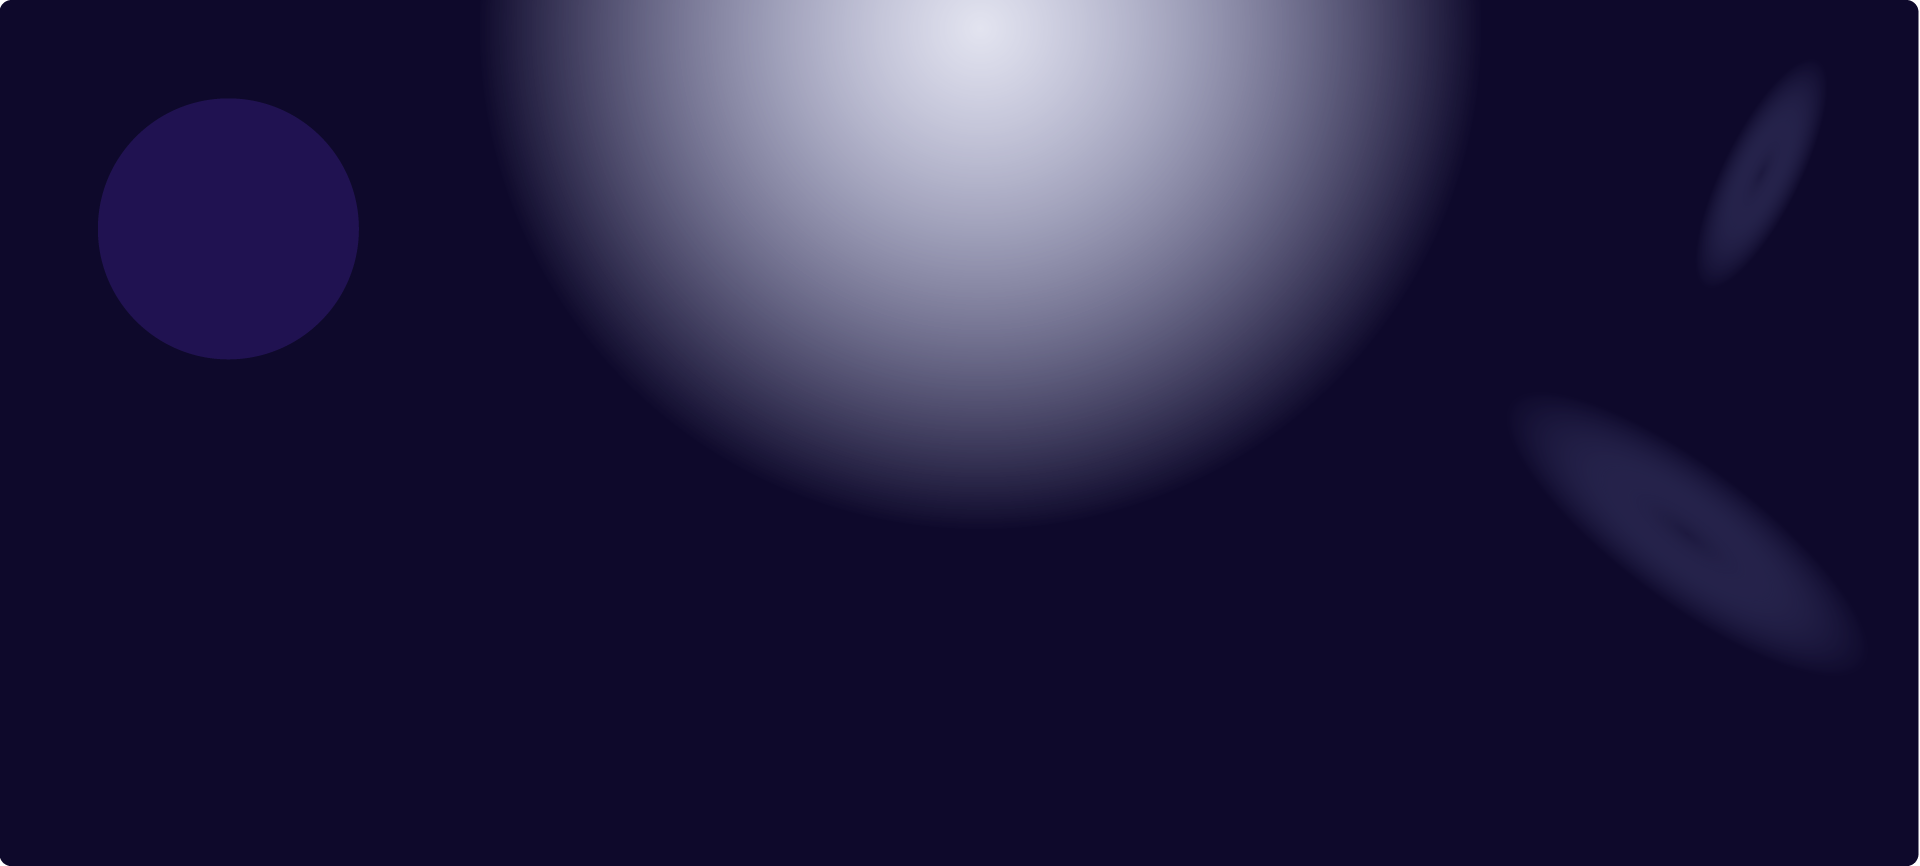
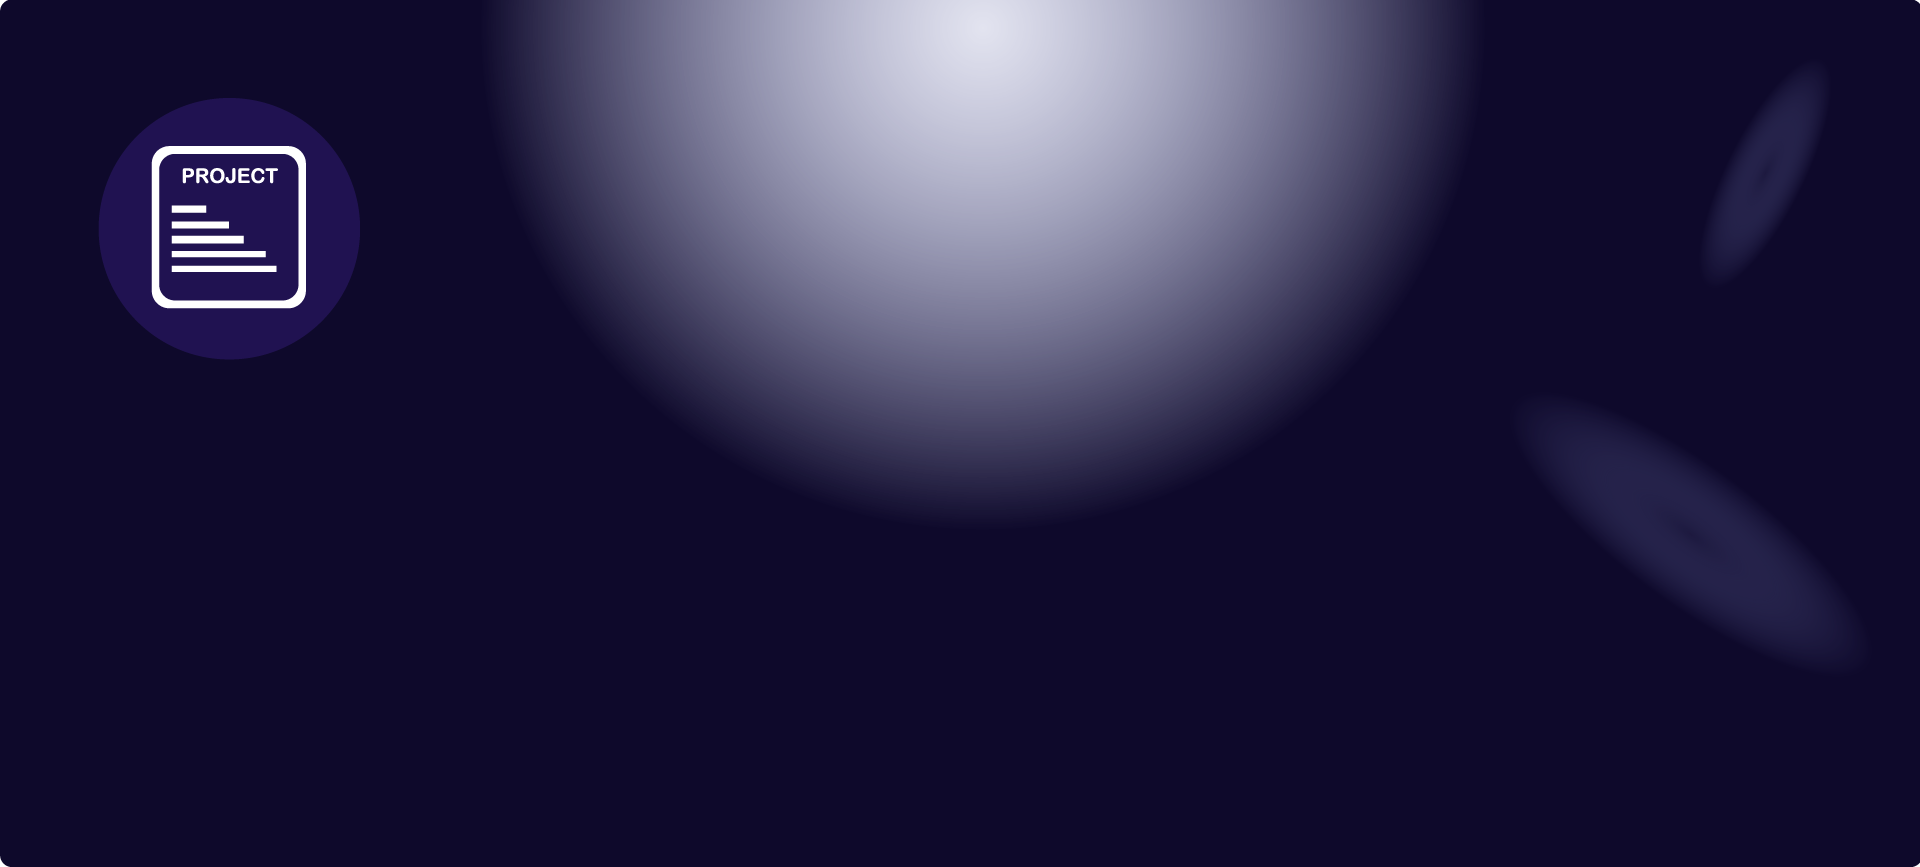
Modification cards

Changed region(s): [[0.0625, 0.1559, 0.1875, 0.3741]]

diff --git a/src/Composant/Bloc-2/Cards/Card-2.tsx b/src/Composant/Bloc-2/Cards/Card-2.tsx
@@ -3,7 +3,7 @@ import React from "react";
 const Card2: React.FC = () => {
     return (
         <div className="relative w-full xl:w-1/2 overflow-hidden z-10 mt-2 px-4 md:px-8 lg:mt-10 lg:px-10">
-            <img src="/Image-portfolio/bloc-2/cards/card-ui.png" alt="Image 1" className="mb-4 rounded-2xl md:rounded-3xl" />
+            <img src="/Image-portfolio/bloc-2/cards/card-conception.png" alt="Image 1" className="mb-4 rounded-2xl md:rounded-3xl" />
             <div className="absolute top-0 left-0 h-full px-4 md:px-8 flex flex-col justify-center ml-6 mt-6 md:ml-14 md:mt-12 lg:mt-8">
                 <p className="text-white md:text-3xl lg:text-xl 2xl:text-4xl text-lg mt-4 lg:mt-0 font-poppins font-bold">Conception</p>
                 <p className="text-xs md:text-base mt-2 lg:pr-24 2xl:text-2xl font-poppins text-[#b4b3b3] font-medium">Je me charge de la conception complète de vos solutions numériques, en prenant en compte chaque détail.</p>
